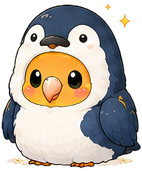
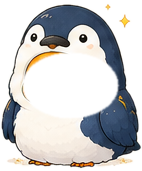
Fix cosmetic costumes: composite onto each bird's own sprite
The first cosmetics pass had two bugs by category: kigurumi/event/theme/
seasonal items baked in Vivi's own face/colors (any other bird wearing one
showed Vivi's face instead of its own), while outfit/cute items had no
bird drawn in them at all (equipping one made the bird disappear).

Masks out the baked-in bird from the first 8 items (geometric alpha masks,
since color-flood leaked between similarly-toned "keep" and "discard"
regions) so all 12 are now costume-only art, then layers each on top of
the wearer's own base sprite at render time instead of replacing it
wholesale. Verified by compositing all 12 costumes over all 4 birds'
base sprites.

diff --git a/src/data/cosmetics.ts b/src/data/cosmetics.ts
@@ -5,20 +5,45 @@ import { CosmeticCategory } from '../types';
 // CosmeticCategory, and BirdState.cosmeticId). Cropped from a single
 // hand-painted reference sheet the request described as "ビビ専用装備" — that
 // naming was a labeling mistake in the source material, not an actual
-// per-bird restriction: every entry here is shared across all 4 birds (one
-// image, reused as-is regardless of which bird has it equipped), matching
-// the request's own "1種類の絵を全鳥に使い回す" instruction.
+// per-bird restriction: every entry here is shared across all 4 birds.
+//
+// Correction (real-device report, see this commit): the first pass of this
+// catalog just swapped the reference sheet's own crops in as a full-body
+// replacement for the bird's own base sprite. That broke in two different
+// ways depending on category:
+//   - 着ぐるみ/お祝い/テーマ/季節 drew a full bird IN the costume, with that
+//     bird's own face/colors baked in (the sheet is nominally "ビビ", so it
+//     was literally Vivi's face/colors) — any other bird wearing it showed
+//     Vivi's face instead of its own.
+//   - おしゃれな服/かわいい服 drew the garment alone with no bird at all —
+//     equipping one made the bird disappear, just a floating dress.
+// Fixed by converting every item into a costume-*only* asset (masking out
+// whichever bird was baked into the first 8 — see the git history for the
+// per-item alpha masks that job needed, since a simple color-based cutout
+// wasn't reliable given how much the "keep" and "discard" regions overlapped
+// in tone) and layering it on top of the wearer's OWN base sprite at
+// render time (CharacterAvatar) instead of replacing it. Any bird's own
+// face/color now always shows through whatever hole/gap the costume has.
 export interface CosmeticItemDef {
   id: string;
   name: string;
   category: CosmeticCategory;
-  // A full standing-bird illustration (like assets/birds/*/base.png), not a
-  // transparent overlay — see CharacterAvatar, which swaps this in for the
-  // bird's own base sprite wholesale rather than layering it on top. The
-  // reference sheet draws every costume this way (the same 256x256,
-  // centered, bottom-anchored canvas convention documented in
-  // assets/birds/README.md), so no per-bird positioning math is needed.
+  // Costume-only art (no bird baked in) — a hood/hat/cape/dress with a
+  // transparent gap wherever the wearer's own face or body should show.
   imageAsset: number;
+  // Where/how big to draw imageAsset when layered on top of a 256x256 base
+  // sprite (assets/birds/*/base.png's own canvas convention — see that
+  // folder's README for foot-line/center conventions the two share).
+  // widthFrac/heightFrac size the image as a fraction of the render size;
+  // centerXFrac/centerYFrac place its center the same way. Derived by
+  // compositing each item over vivi/base.png (the sheet's own nominal
+  // reference bird) and tuning by eye, then confirmed unchanged on a
+  // different-colored bird (haku) since all 4 base sprites share the same
+  // proportions/anchor.
+  widthFrac: number;
+  heightFrac: number;
+  centerXFrac: number;
+  centerYFrac: number;
 }
 
 export const COSMETIC_CATEGORY_LABELS: Record<CosmeticCategory, string> = {
@@ -35,35 +60,127 @@ export const COSMETIC_CATEGORY_LABELS: Record<CosmeticCategory, string> = {
 // せん" allowance) — how a player actually *acquires* one (shop/gacha/event)
 // is intentionally out of scope for this pass, so every sample here is
 // simply available to any bird from the start.
-//
-// Caveat found while cropping: unlike every other category, the reference
-// sheet's「おしゃれな服」and「かわいい服」rows only ever draw the garment on
-// its own (no bird inside/peeking out) — every other category (着ぐるみ・お
-// 祝い・テーマ・季節) shows a full bird wearing the piece. That's a real gap
-// in the provided art, not a cropping mistake: equipping 'outfit'/'cute'
-// items will visibly show just the garment where the bird normally stands.
-// Flagged rather than silently painted over — replacing these two
-// categories' source art (or compositing them onto a base bird sprite,
-// which would need its own alignment pass given how different the two art
-// styles are) is a separate follow-up if it matters in practice.
 export const COSMETIC_ITEMS: CosmeticItemDef[] = [
-  { id: 'costume_parrot', name: 'おおきなインコ', category: 'costume', imageAsset: require('../../assets/cosmetics/costume_parrot.png') },
-  { id: 'costume_penguin', name: 'ペンギン', category: 'costume', imageAsset: require('../../assets/cosmetics/costume_penguin.png') },
-
-  { id: 'outfit_flower_dress', name: 'お花のワンピース', category: 'outfit', imageAsset: require('../../assets/cosmetics/outfit_flower_dress.png') },
-  { id: 'outfit_sailor', name: 'セーラー服', category: 'outfit', imageAsset: require('../../assets/cosmetics/outfit_sailor.png') },
-
-  { id: 'cute_leaf_tunic', name: 'リーフチュニック', category: 'cute', imageAsset: require('../../assets/cosmetics/cute_leaf_tunic.png') },
-  { id: 'cute_fluffy_sweater', name: 'ふわふわセーター', category: 'cute', imageAsset: require('../../assets/cosmetics/cute_fluffy_sweater.png') },
-
-  { id: 'event_party_dress', name: 'パーティードレス', category: 'event', imageAsset: require('../../assets/cosmetics/event_party_dress.png') },
-  { id: 'event_santa_cape', name: 'サンタケープ', category: 'event', imageAsset: require('../../assets/cosmetics/event_santa_cape.png') },
-
-  { id: 'theme_ladybug', name: 'てんとう虫', category: 'theme', imageAsset: require('../../assets/cosmetics/theme_ladybug.png') },
-  { id: 'theme_sunflower', name: 'ひまわり', category: 'theme', imageAsset: require('../../assets/cosmetics/theme_sunflower.png') },
-
-  { id: 'seasonal_spring', name: '春(桜)', category: 'seasonal', imageAsset: require('../../assets/cosmetics/seasonal_spring.png') },
-  { id: 'seasonal_winter', name: '冬(雪だるま)', category: 'seasonal', imageAsset: require('../../assets/cosmetics/seasonal_winter.png') },
+  {
+    id: 'costume_parrot',
+    name: 'おおきなインコ',
+    category: 'costume',
+    imageAsset: require('../../assets/cosmetics/costume_parrot.png'),
+    widthFrac: 0.7227,
+    heightFrac: 0.8527,
+    centerXFrac: 0.5,
+    centerYFrac: 0.3047,
+  },
+  {
+    id: 'costume_penguin',
+    name: 'ペンギン',
+    category: 'costume',
+    imageAsset: require('../../assets/cosmetics/costume_penguin.png'),
+    widthFrac: 0.8203,
+    heightFrac: 0.9878,
+    centerXFrac: 0.5,
+    centerYFrac: 0.4219,
+  },
+  {
+    id: 'outfit_flower_dress',
+    name: 'お花のワンピース',
+    category: 'outfit',
+    imageAsset: require('../../assets/cosmetics/outfit_flower_dress.png'),
+    widthFrac: 0.7422,
+    heightFrac: 0.6386,
+    centerXFrac: 0.5,
+    centerYFrac: 0.6445,
+  },
+  {
+    id: 'outfit_sailor',
+    name: 'セーラー服',
+    category: 'outfit',
+    imageAsset: require('../../assets/cosmetics/outfit_sailor.png'),
+    widthFrac: 0.7422,
+    heightFrac: 0.7645,
+    centerXFrac: 0.5,
+    centerYFrac: 0.6445,
+  },
+  {
+    id: 'cute_leaf_tunic',
+    name: 'リーフチュニック',
+    category: 'cute',
+    imageAsset: require('../../assets/cosmetics/cute_leaf_tunic.png'),
+    widthFrac: 0.7422,
+    heightFrac: 0.6494,
+    centerXFrac: 0.5,
+    centerYFrac: 0.6445,
+  },
+  {
+    id: 'cute_fluffy_sweater',
+    name: 'ふわふわセーター',
+    category: 'cute',
+    imageAsset: require('../../assets/cosmetics/cute_fluffy_sweater.png'),
+    widthFrac: 0.7422,
+    heightFrac: 0.7002,
+    centerXFrac: 0.5,
+    centerYFrac: 0.6445,
+  },
+  {
+    id: 'event_party_dress',
+    name: 'パーティードレス',
+    category: 'event',
+    imageAsset: require('../../assets/cosmetics/event_party_dress.png'),
+    widthFrac: 0.7617,
+    heightFrac: 0.7761,
+    centerXFrac: 0.5,
+    centerYFrac: 0.5859,
+  },
+  {
+    id: 'event_santa_cape',
+    name: 'サンタケープ',
+    category: 'event',
+    imageAsset: require('../../assets/cosmetics/event_santa_cape.png'),
+    widthFrac: 0.7617,
+    heightFrac: 0.931,
+    centerXFrac: 0.5,
+    centerYFrac: 0.5859,
+  },
+  {
+    id: 'theme_ladybug',
+    name: 'てんとう虫',
+    category: 'theme',
+    imageAsset: require('../../assets/cosmetics/theme_ladybug.png'),
+    widthFrac: 0.7617,
+    heightFrac: 0.9208,
+    centerXFrac: 0.5,
+    centerYFrac: 0.5859,
+  },
+  {
+    id: 'theme_sunflower',
+    name: 'ひまわり',
+    category: 'theme',
+    imageAsset: require('../../assets/cosmetics/theme_sunflower.png'),
+    widthFrac: 0.7227,
+    heightFrac: 0.8869,
+    centerXFrac: 0.5,
+    centerYFrac: 0.2344,
+  },
+  {
+    id: 'seasonal_spring',
+    name: '春(桜)',
+    category: 'seasonal',
+    imageAsset: require('../../assets/cosmetics/seasonal_spring.png'),
+    widthFrac: 0.7617,
+    heightFrac: 0.8098,
+    centerXFrac: 0.5,
+    centerYFrac: 0.5859,
+  },
+  {
+    id: 'seasonal_winter',
+    name: '冬(雪だるま)',
+    category: 'seasonal',
+    imageAsset: require('../../assets/cosmetics/seasonal_winter.png'),
+    widthFrac: 0.7617,
+    heightFrac: 0.904,
+    centerXFrac: 0.5,
+    centerYFrac: 0.5859,
+  },
 ];
 
 export const COSMETIC_ITEM_MAP: Record<string, CosmeticItemDef> = Object.fromEntries(

diff --git a/src/components/CharacterAvatar.tsx b/src/components/CharacterAvatar.tsx
@@ -14,24 +14,38 @@ interface Props {
   // A bird's currently-equipped costume (BirdState.cosmeticId), if any —
   // optional since not every caller has a live bird (e.g. RecruitmentModal/
   // CharacterSelectScreen show a character def before it even has a
-  // wallet). See data/cosmetics.ts: this is a full standing-bird
-  // illustration like base.png, so it *replaces* the base sprite below
-  // wholesale rather than layering on top of it.
+  // wallet). See data/cosmetics.ts: this is a costume-only overlay (no bird
+  // baked in), layered on top of the bird's own base sprite below rather
+  // than replacing it, so the wearer's own face/color always shows through
+  // whatever gap the costume has.
   cosmeticId?: string | null;
 }
 
 export function CharacterAvatar({ characterId, emoji, color, size = 40, cosmeticId }: Props) {
-  const cosmetic = getCosmeticDef(cosmeticId ?? null);
-  if (cosmetic) {
-    return <Image source={cosmetic.imageAsset} style={{ width: size, height: size }} resizeMode="contain" />;
-  }
-
   // The full 2-head-tall standing sprite (assets/birds/{id}/base.png) takes
   // priority once it exists — it's drawn whole (no crop/circle), since a
   // full body doesn't fit a round mask the way the face-icon fallback does.
   const baseSprite = BIRD_BASE_SPRITES[characterId];
   if (baseSprite) {
-    return <Image source={baseSprite} style={{ width: size, height: size }} resizeMode="contain" />;
+    const cosmetic = getCosmeticDef(cosmeticId ?? null);
+    return (
+      <View style={{ width: size, height: size }}>
+        <Image source={baseSprite} style={{ width: size, height: size }} resizeMode="contain" />
+        {cosmetic && (
+          <Image
+            source={cosmetic.imageAsset}
+            resizeMode="stretch"
+            style={{
+              position: 'absolute',
+              width: size * cosmetic.widthFrac,
+              height: size * cosmetic.heightFrac,
+              left: size * cosmetic.centerXFrac - (size * cosmetic.widthFrac) / 2,
+              top: size * cosmetic.centerYFrac - (size * cosmetic.heightFrac) / 2,
+            }}
+          />
+        )}
+      </View>
+    );
   }
 
   const source = CHARACTER_IMAGES[characterId];

diff --git a/src/components/BirdRosterModal.tsx b/src/components/BirdRosterModal.tsx
@@ -1,5 +1,5 @@
 import React from 'react';
-import { Image, Modal, ScrollView, StyleSheet, Text, View } from 'react-native';
+import { Modal, ScrollView, StyleSheet, Text, View } from 'react-native';
 
 import { BirdState, EquipSlot, ItemId, MaterialId } from '../types';
 import { CHARACTERS } from '../data/characters';
@@ -137,7 +137,13 @@ export function BirdRosterModal({ visible, onClose, birds, onSetCosmetic }: Prop
                           style={[styles.cosmeticChip, isActive && styles.cosmeticChipActive]}
                           onPress={() => onSetCosmetic(bird.defId, isActive ? null : cosmetic.id)}
                         >
-                          <Image source={cosmetic.imageAsset} style={styles.cosmeticChipImage} resizeMode="contain" />
+                          <CharacterAvatar
+                            characterId={c.id}
+                            emoji={c.emoji}
+                            color={c.color}
+                            size={40}
+                            cosmeticId={cosmetic.id}
+                          />
                           <Text style={styles.cosmeticChipLabel} numberOfLines={1}>
                             {cosmetic.name}
                           </Text>
@@ -242,7 +248,6 @@ const styles = StyleSheet.create({
     marginRight: 6,
   },
   cosmeticChipActive: { borderColor: theme.gold, backgroundColor: theme.cardAlt },
-  cosmeticChipImage: { width: 40, height: 40 },
   cosmeticChipEmptyIcon: { width: 40, height: 40, alignItems: 'center', justifyContent: 'center' },
   cosmeticChipEmptyIconText: { fontSize: 18, opacity: 0.5 },
   cosmeticChipLabel: { fontSize: 8, color: theme.textMuted, maxWidth: 52, textAlign: 'center' },

diff --git a/README.md b/README.md
@@ -69,6 +69,7 @@
 23. **建物スプライトの導入**: 役場(発展段階5種)・餌屋/道具屋/武器屋/防具屋・商人の出店・公園/水浴び場・鳥の家(4色)・街の柵を、これまでの絵文字表示から専用の描き下ろしイラスト(`assets/buildings/`)に差し替えた。素材は依頼で提供された1枚のリファレンスシート(16項目+柵8種のグリッド)から、各セルの近白色/市松調の背景(実データはアルファ透過ではなくRGB画像だったため)を「画像の縁から連結した明るい領域」をアルファ0にするフラッドフィル法(`scipy.ndimage.label`で背景色に近い画素の連結成分を検出し、外周に接しているものだけを透過化——window/doorなど孤立した明るい部分は外周と繋がっていないため透過されない)で自動的に切り出し、さらに各セルのバウンディングボックスまでトリムして個別のPNG(`data/buildingImages.ts`が名前付きでrequireするレジストリ、tileImages.tsと同じ方式)にした。一部のセル(6〜10番・15・16番)はラベル文字が画像の左上に重なる形でレイアウトされており、単純な矩形マスクでは店名によって除去しきれない/建物を削ってしまう恐れがあったため、行ごとの背景率プロファイルからラベル文字と建物本体の間の“谷”になっている行を探して、そこでクロップ位置をずらすことで対応した。役場・鳥の家は発展段階/個体によって画像の縦横比が大きく異なる(ボロ役場は横長、トロロ自然保護本部は縦に高い塔付き)ため、`WorldMap.tsx`側は中央合わせではなく下端合わせ(`justifyContent: 'flex-end'`)でボックス内に配置し、どの画像でも「地面に立つ位置」が揃うようにしてある。街の柵は柵パネル画像1種(`fence_wood_short.png`)を、ゾーン楕円上の各柵ポスト位置での接線角度(`Math.atan2`でパラメトリック楕円の接線ベクトルから算出)だけ回転させて敷き詰め、曲線に沿った柵らしい見た目にした——リファレンスシートには木/石/生け垣・直線/角/門など柵の種類が8種類含まれているが、曲線に沿って種類ごとの継ぎ目を正しく配置するには本格的なセグメント配置ロジックが必要になるため、今回は依頼の「まずは1〜2種類の簡易な実装でも構わない」という許容範囲に沿って1種類のみ採用した(残り7種も`assets/buildings/`に切り出し済みで、将来使う場合の追加コストはない)。倉庫(共有倉庫)・依頼掲示板の2点は画像を切り出しただけで、対応するマップ上の建物枠が現状存在しない(共有倉庫はプレイヤーの素材倉庫、依頼掲示板は下部の「📋依頼」ボタンとして、どちらも独立したマップ建造物ではなくUIパネルとして実装されているため)ため、今回は組み込みを見送った。絵柄について: 建物素材はやや陰影のある写実寄りのタッチで、鳥キャラクター(フラットな塗りの2頭身)とはテイストに差があるが、彩度・配色自体はパステル寄りの街並みと大きく衝突しないため、今回はそのまま組み込んだ——実機で見た際に違和感が強いようであれば、別途相談の上で建物側の彩度・コントラスト調整や鳥キャラ側の見直しを検討する。
 24. **街レイアウトの密集配置化**: 前項の建物スプライト組み込み後、実機で見ると建物同士の間隔が空きすぎて「間延びした」印象になっていたため、区画グリッド・ゾーン楕円・柵・固定装飾(家/商人)の座標を全面的に詰め直した。区画1マスの間隔(`townGrid.ts`のCELL_W/CELL_H/OUTER_STEP_X/OUTER_STEP_Y)を約1/3(65px間隔)へ縮小——このとき、リング3(外周)の張り出し幅(OUTER_STEP)は元々「リング2からさらに1マス分より少し狭く」してキャンバスからはみ出さないようにしていたが、セル自体が縮んだ今はその制約が不要になっていたことに気づかず一度そのまま縮めてしまい、リング2/3間の区画が44pxの見た目サイズに対して26pxしか間隔がなく約18px重なるバグを検証スクリプトで検出——OUTER_STEPをCELL_W/CELL_H同値(=通常の1マス分)に戻して解消した。ゾーン楕円(`TOWN_ZONE_RADIUS`)も新しいグリッド密度に合わせてrx=0.22→0.235/ry=0.145→0.152へわずかに拡大(フィールド側の敵・採掘ポイントとの最短距離は依然24%の余裕あり)。鳥の家・商人の出店は区画グリッドの数式から独立した固定座標だったため、区画を詰めた分だけ区画と衝突するようになり、単純な「中心距離−半径の和」という円モデルでの再配置ではプラスの余裕が出たにも関わらず、実際の当たり判定は矩形(Pressableのwidth/height)であるため対角線方向にオフセットした2つの四角は円モデルより衝突しやすい、という見落としに気づき、矩形同士の実際の重なり量で再計算——家(36px角)は隣接区画4つとちょうど等距離になる格子の「目地」上に置くのが数学的に最良で、それでも約7.5px分の浅い重なりが避けられないと判明(区画44px+外周ステップ65pxという寸法から導かれる下限で、区画をさらに小さくしない限り解消不可能)。これはタップ対象の大部分が独立して機能する程度の浅い重なりのため、以前からの「リング3隅の区画がゾーン楕円から少しはみ出る」という許容例と同種の妥協として受け入れた。商人の出店は表示ボックス自体を旧来の56px幅(他の汎用スプライトと共通の`styles.sprite`)から32×42pxの専用ボックスへ縮小した上で再配置し、重なりゼロを達成。柵(`fenceNodes`)はポスト数を20→48へ増やし(1周の弧長に対してパネル幅30pxよりわずかに密な間隔にすることで、隙間なく繋がって見えるように)、柵ポストは非インタラクティブ(pointerEvents="none")なため衝突検証は不要。装飾(`TOWN_DECOR`)は新しい柵の内側に収まるよう既存4点を再配置し、既存のモチーフ(🪷=池、LEISURE_SPOT_DEFSの池と同じ絵文字)を再利用した4点を役場周辺の空きスペースに追加した。検証は今回も実機スクリーンショットが撮れないため、実際のレイアウト計算式と切り出し済み建物素材を使ったPython/PIL静的モックアップで最終確認した。
 25. **見た目装備(コスチューム)システムの新設**: 添付の参考シート(タイトルは「ビビ専用装備一覧」だったが、実際は4羽共通で使い回す想定という依頼内容の指摘を受け、表記の誤りとして扱った)から、既存のステータス装備(武器・防具・帽子・盾、`EquipSlot`)とは完全に別の、見た目のみのコスチュームスロットを新設した。データ面は`types.ts`に`CosmeticCategory`(着ぐるみ/おしゃれな服/かわいい服/イベント/テーマ/季節の6種)、`BirdState.cosmeticId`/`BirdWallet.cosmeticId`(`string | null`、1羽につき1着まで)を追加し、`data/cosmetics.ts`に`CosmeticItemDef`(id/name/category/imageAsset)のカタログを作った——依頼の「まずは各カテゴリから数点ずつのサンプル実装で構わない」に沿って、6カテゴリ×2点=12点のみを参考シートから切り出した(`assets/cosmetics/`、建物スプライトの時と同じ背景除去+バウンディングボックストリムのPythonパイプラインを流用)。着せ替えは`useWorldStore`の`setCosmetic(defId, cosmeticId)`(常時呼べる直接更新アクション、`favoriteTreasure`と同じ「tickを待たずにその場でworld state を更新する」パターン)で行い、コスト・所持数のチェックは一切なし(入手方法の設計は依頼のスコープ外)。表示は`CharacterAvatar`に新しい`cosmeticId`propを追加し、コスチューム画像を「本体スプライト(`BIRD_BASE_SPRITES`)の上に重ねる」のではなく丸ごと差し替える形にした——参考シートの画像自体が(`assets/birds/README.md`と同じ)256×256・中央揃え・下部余白付きの「鳥1羽の全身イラスト」として描かれているため、本体との重ね合わせ位置調整が一切不要になる。着せ替えUIは`BirdRosterModal`の各鳥カードに、水平スクロールのサムネイル一覧(+「なし」で解除)を追加し、タップした`AnimatedPressable`がそのまま`setCosmetic`を呼ぶ。素材面での制約: 参考シートを実際に切り出したところ、「おしゃれな服」「かわいい服」の2カテゴリだけは(着ぐるみ・イベント・テーマ・季節と違い)服単体のイラストで、鳥本体が描かれていないことが判明した——本体を丸ごと差し替える今回の実装方式だと、この2カテゴリを着せた鳥は見た目上「服だけが浮いて鳥が消える」表示になる。これは切り出しミスではなく参考シート側の作画の不統一によるものなので、そのまま黙って組み込むのではなく明示しておく——別の素材への差し替え、または鳥本体スプライトへの服の合成(スタイルの違いから位置合わせに別途調整が必要)が必要であれば、追って相談。
+26. **見た目装備システムの修正: 全カテゴリを「本体合成方式」に統一**: 前項出荷後の実機報告で、上記の「服単体で鳥が描かれていない」問題(おしゃれな服・かわいい服)に加えて、逆側の問題も見つかった——着ぐるみ・お祝い・テーマ・季節の8点は、参考シートが「ビビ専用」だった名残でビビ自身の顔・配色が絵にそのまま焼き込まれており、他の3羽がこれを着ると(本体を丸ごと差し替える実装だったため)その鳥自身ではなくビビの顔が表示されてしまっていた。原因は共通(カテゴリごとに素材の描かれ方が統一されていなかったこと)なので、全12点を「鳥本体を含まない、コスチューム部分のみの絵」に揃え、各鳥自身の`BIRD_BASE_SPRITES`の上に重ねて合成表示する方式に統一した。8点の焼き込み除去は、色ベースのフラッドフィル(建物スプライトの背景除去で使った手法)だと「残したい部分(着ぐるみのフード等)」と「消したい部分(素の鳥の顔・体)」の色味が重なりすぎて誤って両方消えてしまう/両方残ってしまう事故が起きたため、座標ベースの楕円・矩形マスク(`scipy.ndimage`の`binary_dilation`で塗り残しの輪郭線も一緒に消す)に切り替え、各画像ごとに目視で穴の位置・大きさを調整した——例えば「顔だけが出る」着ぐるみ(ペンギン、雪だるま等)は顔部分だけを楕円でくり抜き、「フードの下に素の体が続く」タイプ(おおきなインコ、ひまわり等)はフード部分だけを残して下半分を丸ごと消す、サンタケープのような「縁取りだけが衣装」タイプは中央を消して外周のケープ部分だけ残す、という具合に各画像の構図に応じてマスク形状を変えた。位置合わせの基準点は`assets/birds/README.md`の256×256キャンバス規約(足裏基準線y=229、中央x=128)を流用し、`data/cosmetics.ts`の`CosmeticItemDef`に`widthFrac`/`heightFrac`/`centerXFrac`/`centerYFrac`(256キャンバスに対する比率)を追加——ビビの本体スプライトに実際に重ねて位置を目視調整し、配色の異なる別の鳥(ハク)に同じ数値を適用しても違和感なく揃うことを確認した(4羽とも同じキャンバス規約で作られているため)。`CharacterAvatar`は本体スプライトの上に`position: 'absolute'`でコスチューム画像を重ねるよう変更(以前の「本体を丸ごと差し替え」から「本体の上にレイヤーする」への転換)。`BirdRosterModal`の着せ替えサムネイルも、素のコスチューム画像ではなくその鳥自身の`CharacterAvatar`(本体+コスチューム合成済み)を表示するよう変更し、選択プレビューが実際の見た目と一致するようにした。検証はPython/PILで12点×4羽=48通りの合成を実際にレンダリングし、目視で全羽が自分の顔・配色で表示されることを確認した。
 
 ## セットアップ(PCで実機のiPhone確認)
 
